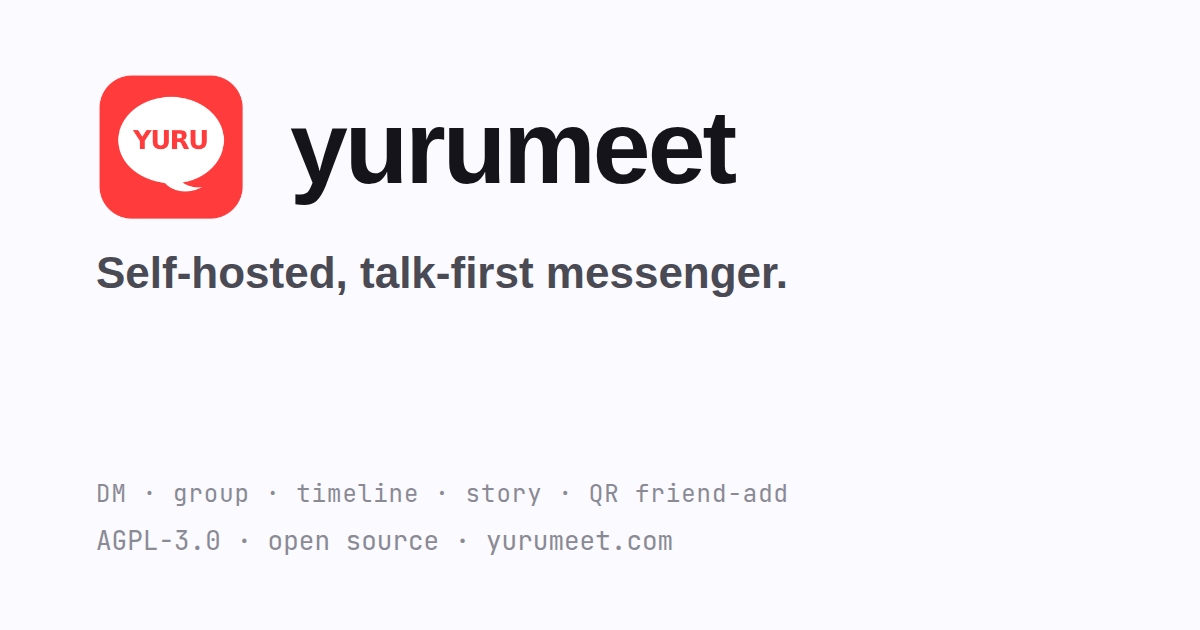
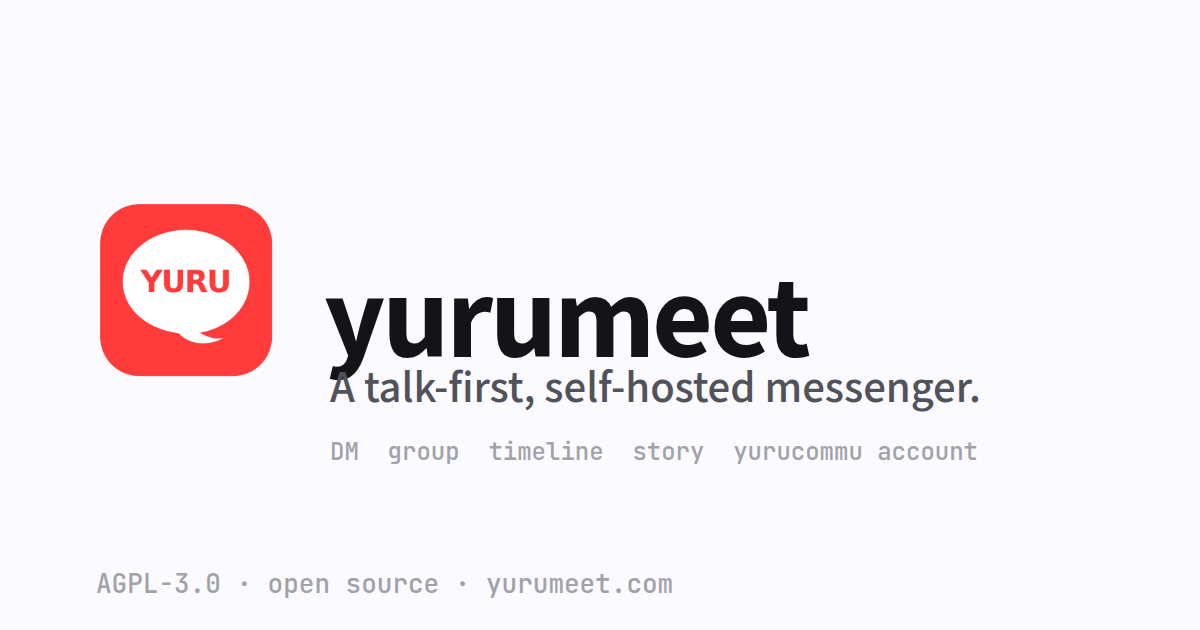
site: align the og card with the product document

diff --git a/site/og-template.html b/site/og-template.html
@@ -1,0 +1,57 @@
+<!doctype html>
+<!--
+  OG card source for yurumeet.com (1200x630). Rendered to og.png by loading this
+  file in a 1200x630 viewport and screenshotting it. Edit here, then regenerate.
+-->
+<html lang="ja">
+  <head>
+    <meta charset="UTF-8" />
+    <link rel="preconnect" href="https://fonts.googleapis.com" />
+    <link rel="preconnect" href="https://fonts.gstatic.com" crossorigin />
+    <link
+      href="https://fonts.googleapis.com/css2?family=Noto+Sans+JP:wght@500;700;800&family=JetBrains+Mono:wght@500&display=swap"
+      rel="stylesheet"
+    />
+    <style>
+      * { margin: 0; padding: 0; box-sizing: border-box; }
+      html, body { width: 1200px; height: 630px; }
+      body {
+        background: #fafaff;
+        color: #141416;
+        font-family: "Noto Sans JP", sans-serif;
+      }
+      .frame { position: absolute; inset: 0; }
+      .mark {
+        position: absolute; left: 96px; top: 200px;
+        width: 180px; height: 180px; border-radius: 44px;
+        overflow: hidden;
+      }
+      .mark img { width: 180px; height: 180px; display: block; }
+      .name {
+        position: absolute; left: 324px; top: 236px;
+        font-size: 104px; font-weight: 800; letter-spacing: -0.03em;
+      }
+      .desc {
+        position: absolute; left: 330px; top: 356px;
+        font-size: 40px; font-weight: 500; color: #52525b;
+      }
+      .spec {
+        position: absolute; left: 330px; top: 436px;
+        font-family: "JetBrains Mono", monospace; font-size: 24px; color: #a1a1aa;
+      }
+      .foot {
+        position: absolute; left: 96px; top: 566px;
+        font-family: "JetBrains Mono", monospace; font-size: 26px; color: #a1a1aa;
+      }
+    </style>
+  </head>
+  <body>
+    <div class="frame">
+      <div class="mark"><img src="assets/yurumeet-logo.png" alt="" /></div>
+      <div class="name">yurumeet</div>
+      <div class="desc">A talk-first, self-hosted messenger.</div>
+      <div class="spec">DM&nbsp;&nbsp;group&nbsp;&nbsp;timeline&nbsp;&nbsp;story&nbsp;&nbsp;yurucommu account</div>
+      <div class="foot">AGPL-3.0 · open source · yurumeet.com</div>
+    </div>
+  </body>
+</html>
